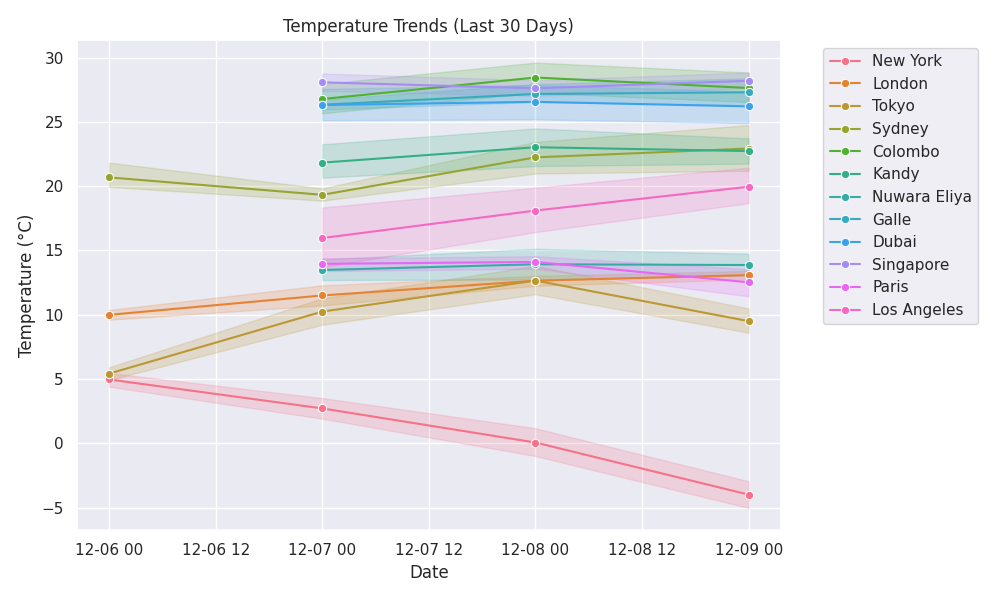
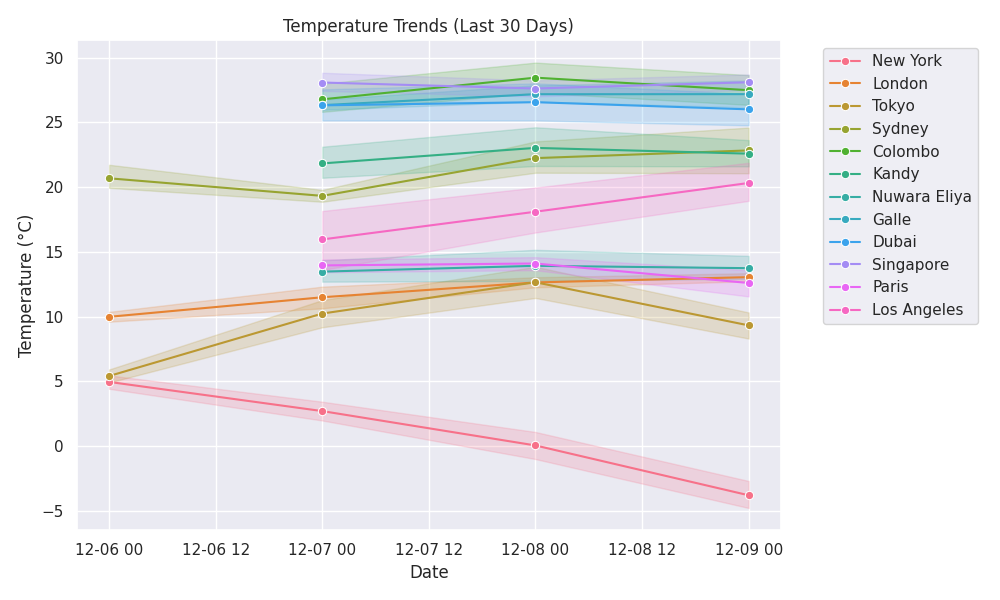
🌦 Weather update: 2025-12-09 22:14

diff --git a/public/index.html b/public/index.html
@@ -11,7 +11,7 @@
     <div class="max-w-6xl mx-auto">
         <header class="mb-8 text-center">
             <h1 class="text-4xl font-bold mb-2">🌍 Global Weather Dashboard</h1>
-            <p class="text-slate-400">Last Updated: 2025-12-09 21:11:17</p>
+            <p class="text-slate-400">Last Updated: 2025-12-09 22:14:01</p>
         </header>
         
         <!-- AI Summary -->
@@ -29,12 +29,12 @@
                     <span class="text-3xl">🌧</span>
                 </div>
                 <div class="mt-4">
-                    <p class="text-4xl font-bold">14.16°C</p>
-                    <p class="text-slate-400 capitalize">moderate rain</p>
+                    <p class="text-4xl font-bold">14.23°C</p>
+                    <p class="text-slate-400 capitalize">light rain</p>
                 </div>
                 <div class="mt-4 text-sm text-slate-500">
-                    <p>💧 Humidity: 81%</p>
-                    <p>💨 Wind: 5.66 m/s</p>
+                    <p>💧 Humidity: 82%</p>
+                    <p>💨 Wind: 5.14 m/s</p>
                 </div>
             </div>
             
@@ -44,12 +44,12 @@
                     <span class="text-3xl">☁</span>
                 </div>
                 <div class="mt-4">
-                    <p class="text-4xl font-bold">12.95°C</p>
-                    <p class="text-slate-400 capitalize">few clouds</p>
+                    <p class="text-4xl font-bold">12.4°C</p>
+                    <p class="text-slate-400 capitalize">scattered clouds</p>
                 </div>
                 <div class="mt-4 text-sm text-slate-500">
                     <p>💧 Humidity: 81%</p>
-                    <p>💨 Wind: 7.15 m/s</p>
+                    <p>💨 Wind: 5.36 m/s</p>
                 </div>
             </div>
             
@@ -59,12 +59,12 @@
                     <span class="text-3xl">☁</span>
                 </div>
                 <div class="mt-4">
-                    <p class="text-4xl font-bold">20.2°C</p>
-                    <p class="text-slate-400 capitalize">broken clouds</p>
+                    <p class="text-4xl font-bold">21.0°C</p>
+                    <p class="text-slate-400 capitalize">overcast clouds</p>
                 </div>
                 <div class="mt-4 text-sm text-slate-500">
-                    <p>💧 Humidity: 75%</p>
-                    <p>💨 Wind: 7.2 m/s</p>
+                    <p>💧 Humidity: 72%</p>
+                    <p>💨 Wind: 0.45 m/s</p>
                 </div>
             </div>
             
@@ -74,12 +74,12 @@
                     <span class="text-3xl">☁</span>
                 </div>
                 <div class="mt-4">
-                    <p class="text-4xl font-bold">26.18°C</p>
+                    <p class="text-4xl font-bold">26.07°C</p>
                     <p class="text-slate-400 capitalize">broken clouds</p>
                 </div>
                 <div class="mt-4 text-sm text-slate-500">
-                    <p>💧 Humidity: 84%</p>
-                    <p>💨 Wind: 2.57 m/s</p>
+                    <p>💧 Humidity: 85%</p>
+                    <p>💨 Wind: 2.06 m/s</p>
                 </div>
             </div>
             
@@ -89,12 +89,12 @@
                     <span class="text-3xl">☀</span>
                 </div>
                 <div class="mt-4">
-                    <p class="text-4xl font-bold">22.96°C</p>
+                    <p class="text-4xl font-bold">21.96°C</p>
                     <p class="text-slate-400 capitalize">clear sky</p>
                 </div>
                 <div class="mt-4 text-sm text-slate-500">
-                    <p>💧 Humidity: 56%</p>
-                    <p>💨 Wind: 2.57 m/s</p>
+                    <p>💧 Humidity: 60%</p>
+                    <p>💨 Wind: 2.06 m/s</p>
                 </div>
             </div>
             
@@ -104,12 +104,12 @@
                     <span class="text-3xl">☁</span>
                 </div>
                 <div class="mt-4">
-                    <p class="text-4xl font-bold">24.74°C</p>
+                    <p class="text-4xl font-bold">24.71°C</p>
                     <p class="text-slate-400 capitalize">overcast clouds</p>
                 </div>
                 <div class="mt-4 text-sm text-slate-500">
-                    <p>💧 Humidity: 87%</p>
-                    <p>💨 Wind: 2.9 m/s</p>
+                    <p>💧 Humidity: 88%</p>
+                    <p>💨 Wind: 3.03 m/s</p>
                 </div>
             </div>
             
@@ -119,12 +119,12 @@
                     <span class="text-3xl">☁</span>
                 </div>
                 <div class="mt-4">
-                    <p class="text-4xl font-bold">11.24°C</p>
+                    <p class="text-4xl font-bold">11.34°C</p>
                     <p class="text-slate-400 capitalize">overcast clouds</p>
                 </div>
                 <div class="mt-4 text-sm text-slate-500">
                     <p>💧 Humidity: 93%</p>
-                    <p>💨 Wind: 1.05 m/s</p>
+                    <p>💨 Wind: 1.07 m/s</p>
                 </div>
             </div>
             
@@ -134,12 +134,12 @@
                     <span class="text-3xl">☁</span>
                 </div>
                 <div class="mt-4">
-                    <p class="text-4xl font-bold">19.79°C</p>
+                    <p class="text-4xl font-bold">19.66°C</p>
                     <p class="text-slate-400 capitalize">broken clouds</p>
                 </div>
                 <div class="mt-4 text-sm text-slate-500">
                     <p>💧 Humidity: 98%</p>
-                    <p>💨 Wind: 1.8 m/s</p>
+                    <p>💨 Wind: 1.79 m/s</p>
                 </div>
             </div>
             
@@ -149,27 +149,27 @@
                     <span class="text-3xl">☁</span>
                 </div>
                 <div class="mt-4">
-                    <p class="text-4xl font-bold">25.02°C</p>
+                    <p class="text-4xl font-bold">24.46°C</p>
                     <p class="text-slate-400 capitalize">overcast clouds</p>
                 </div>
                 <div class="mt-4 text-sm text-slate-500">
                     <p>💧 Humidity: 92%</p>
-                    <p>💨 Wind: 4.63 m/s</p>
+                    <p>💨 Wind: 4.77 m/s</p>
                 </div>
             </div>
             
             <div class="bg-slate-800 p-6 rounded-xl shadow-lg border-t-4 border-blue-500 hover:scale-105 transition-transform">
                 <div class="flex justify-between items-start">
                     <h3 class="text-xl font-bold">New York</h3>
-                    <span class="text-3xl">☀</span>
+                    <span class="text-3xl">☁</span>
                 </div>
                 <div class="mt-4">
-                    <p class="text-4xl font-bold">0.37°C</p>
-                    <p class="text-slate-400 capitalize">clear sky</p>
+                    <p class="text-4xl font-bold">0.34°C</p>
+                    <p class="text-slate-400 capitalize">few clouds</p>
                 </div>
                 <div class="mt-4 text-sm text-slate-500">
-                    <p>💧 Humidity: 37%</p>
-                    <p>💨 Wind: 5.66 m/s</p>
+                    <p>💧 Humidity: 42%</p>
+                    <p>💨 Wind: 6.17 m/s</p>
                 </div>
             </div>
             
@@ -179,12 +179,12 @@
                     <span class="text-3xl">☁</span>
                 </div>
                 <div class="mt-4">
-                    <p class="text-4xl font-bold">6.19°C</p>
+                    <p class="text-4xl font-bold">5.91°C</p>
                     <p class="text-slate-400 capitalize">few clouds</p>
                 </div>
                 <div class="mt-4 text-sm text-slate-500">
-                    <p>💧 Humidity: 56%</p>
-                    <p>💨 Wind: 1.54 m/s</p>
+                    <p>💧 Humidity: 57%</p>
+                    <p>💨 Wind: 2.06 m/s</p>
                 </div>
             </div>
             
@@ -194,12 +194,12 @@
                     <span class="text-3xl">☀</span>
                 </div>
                 <div class="mt-4">
-                    <p class="text-4xl font-bold">27.48°C</p>
+                    <p class="text-4xl font-bold">27.62°C</p>
                     <p class="text-slate-400 capitalize">clear sky</p>
                 </div>
                 <div class="mt-4 text-sm text-slate-500">
-                    <p>💧 Humidity: 24%</p>
-                    <p>💨 Wind: 3.6 m/s</p>
+                    <p>💧 Humidity: 27%</p>
+                    <p>💨 Wind: 1.54 m/s</p>
                 </div>
             </div>
             

diff --git a/README.md b/README.md
@@ -8,8 +8,8 @@
 
 ---
 
-## ⚡ Live Status (Updated: 2025-12-09 21:11 UTC)
-![Paris](https://img.shields.io/badge/Paris-14.16°C-blue) ![London](https://img.shields.io/badge/London-12.95°C-blue) ![Sydney](https://img.shields.io/badge/Sydney-20.2°C-green) ![Singapore](https://img.shields.io/badge/Singapore-26.18°C-orange) ![Dubai](https://img.shields.io/badge/Dubai-22.96°C-green) ![Galle](https://img.shields.io/badge/Galle-24.74°C-green) ![Nuwara Eliya](https://img.shields.io/badge/Nuwara%20Eliya-11.24°C-blue) ![Kandy](https://img.shields.io/badge/Kandy-19.79°C-green) ![Colombo](https://img.shields.io/badge/Colombo-25.02°C-orange) ![New York](https://img.shields.io/badge/New%20York-0.37°C-blue) ![Tokyo](https://img.shields.io/badge/Tokyo-6.19°C-blue) ![Los Angeles](https://img.shields.io/badge/Los%20Angeles-27.48°C-orange) 
+## ⚡ Live Status (Updated: 2025-12-09 22:14 UTC)
+![Paris](https://img.shields.io/badge/Paris-14.23°C-blue) ![London](https://img.shields.io/badge/London-12.4°C-blue) ![Sydney](https://img.shields.io/badge/Sydney-21.0°C-green) ![Singapore](https://img.shields.io/badge/Singapore-26.07°C-orange) ![Dubai](https://img.shields.io/badge/Dubai-21.96°C-green) ![Galle](https://img.shields.io/badge/Galle-24.71°C-green) ![Nuwara Eliya](https://img.shields.io/badge/Nuwara%20Eliya-11.34°C-blue) ![Kandy](https://img.shields.io/badge/Kandy-19.66°C-green) ![Colombo](https://img.shields.io/badge/Colombo-24.46°C-green) ![New York](https://img.shields.io/badge/New%20York-0.34°C-blue) ![Tokyo](https://img.shields.io/badge/Tokyo-5.91°C-blue) ![Los Angeles](https://img.shields.io/badge/Los%20Angeles-27.62°C-orange) 
 
 <div align="center">
   <h3>🏆 Weather Records (Live)</h3>
@@ -19,8 +19,8 @@
         <td align="center">❄ <b>Coldest City</b></td>
     </tr>
     <tr>
-        <td align="center"><b>Los Angeles</b><br>27.48°C</td>
-        <td align="center"><b>New York</b><br>0.37°C</td>
+        <td align="center"><b>Los Angeles</b><br>27.62°C</td>
+        <td align="center"><b>New York</b><br>0.34°C</td>
     </tr>
   </table>
 </div>
@@ -28,18 +28,18 @@
 ## 📊 Global Overview
 | 🌍 City | 🌡 Temp | 🌤 Condition | 💧 Humidity | 🌬 Wind |
 |---|---|---|---|---|
-| **Paris** | 14.16°C | moderate rain | 🟦🟦🟦🟦⬜ 81% | 5.66 m/s |
-| **London** | 12.95°C | few clouds | 🟦🟦🟦🟦⬜ 81% | 7.15 m/s |
-| **Sydney** | 20.2°C | broken clouds | 🟦🟦🟦⬜⬜ 75% | 7.2 m/s |
-| **Singapore** | 26.18°C | broken clouds | 🟦🟦🟦🟦⬜ 84% | 2.57 m/s |
-| **Dubai** | 22.96°C | clear sky | 🟦🟦⬜⬜⬜ 56% | 2.57 m/s |
-| **Galle** | 24.74°C | overcast clouds | 🟦🟦🟦🟦⬜ 87% | 2.9 m/s |
-| **Nuwara Eliya** | 11.24°C | overcast clouds | 🟦🟦🟦🟦⬜ 93% | 1.05 m/s |
-| **Kandy** | 19.79°C | broken clouds | 🟦🟦🟦🟦⬜ 98% | 1.8 m/s |
-| **Colombo** | 25.02°C | overcast clouds | 🟦🟦🟦🟦⬜ 92% | 4.63 m/s |
-| **New York** | 0.37°C | clear sky | 🟦⬜⬜⬜⬜ 37% | 5.66 m/s |
-| **Tokyo** | 6.19°C | few clouds | 🟦🟦⬜⬜⬜ 56% | 1.54 m/s |
-| **Los Angeles** | 27.48°C | clear sky | 🟦⬜⬜⬜⬜ 24% | 3.6 m/s |
+| **Paris** | 14.23°C | light rain | 🟦🟦🟦🟦⬜ 82% | 5.14 m/s |
+| **London** | 12.4°C | scattered clouds | 🟦🟦🟦🟦⬜ 81% | 5.36 m/s |
+| **Sydney** | 21.0°C | overcast clouds | 🟦🟦🟦⬜⬜ 72% | 0.45 m/s |
+| **Singapore** | 26.07°C | broken clouds | 🟦🟦🟦🟦⬜ 85% | 2.06 m/s |
+| **Dubai** | 21.96°C | clear sky | 🟦🟦🟦⬜⬜ 60% | 2.06 m/s |
+| **Galle** | 24.71°C | overcast clouds | 🟦🟦🟦🟦⬜ 88% | 3.03 m/s |
+| **Nuwara Eliya** | 11.34°C | overcast clouds | 🟦🟦🟦🟦⬜ 93% | 1.07 m/s |
+| **Kandy** | 19.66°C | broken clouds | 🟦🟦🟦🟦⬜ 98% | 1.79 m/s |
+| **Colombo** | 24.46°C | overcast clouds | 🟦🟦🟦🟦⬜ 92% | 4.77 m/s |
+| **New York** | 0.34°C | few clouds | 🟦🟦⬜⬜⬜ 42% | 6.17 m/s |
+| **Tokyo** | 5.91°C | few clouds | 🟦🟦⬜⬜⬜ 57% | 2.06 m/s |
+| **Los Angeles** | 27.62°C | clear sky | 🟦⬜⬜⬜⬜ 27% | 1.54 m/s |
 
 
 ## 📈 Temperature Trends
